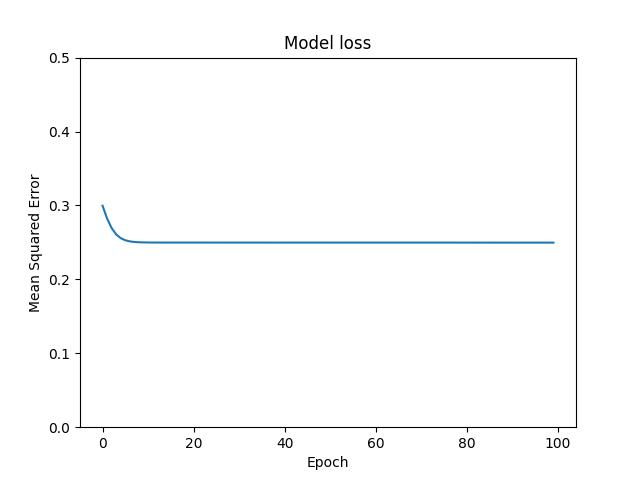
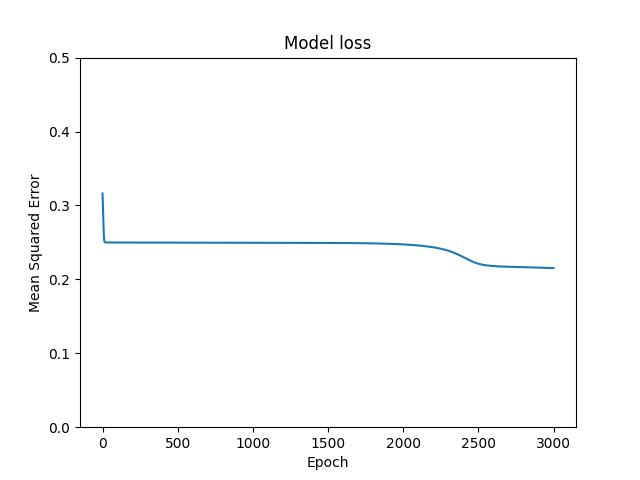
fixed testing print outs

diff --git a/src/assignment1.py b/src/assignment1.py
@@ -279,14 +279,15 @@ def main():
 
     ###Data and variables
     data = load_data()
+    make_graphs(data[0], data[1])
 
     ###Adapt the layers to change the shape of the neural network###
     input_size = [2]
     output_size = [1]
     hidden_layers = [6, 6]
-    Iteration_Epochs = 100
+    Iteration_Epochs = 3000
 
-    ##10 times model run with crossvalidation###
+    #10 times model run with crossvalidation###
     loss = np.zeros(Iteration_Epochs)
     accuracy = np.zeros(Iteration_Epochs)
     kerasloss = np.zeros(Iteration_Epochs)
@@ -307,10 +308,11 @@ def main():
         NN = Neural_Network(data_train, input_size, output_size, hidden_layers)
         loss2, accuracy2 = NN.train_network(Batch_Size, Iteration_Epochs, 0.2)
         NNtime = time.time() - start_time
+
         start_time = time.time()
         history, model = keras_learning(data_train, input_size, output_size, hidden_layers, Batch_Size, Iteration_Epochs, optimizer = SGD(learning_rate=0.8, momentum=0.2))
-        
         kerastime = time.time() - start_time
+
         kerasloss2 = history.history['loss']
         kerasaccuracy2 = history.history['accuracy']
         loss = [a + b for a, b in zip(loss, loss2)]
@@ -319,9 +321,9 @@ def main():
         kerasaccuracy = [a + b for a, b in zip(kerasaccuracy, kerasaccuracy2)]
 
         testhistory = model.evaluate(data_test[0], data_test[1], verbose = 0)
-        overall_NN_test_acc.append(testhistory[1])
+        overall_keras_test_acc.append(testhistory[1])
         testaccuracy = NN.classify(data_test[0], data_test[1])
-        overall_keras_test_acc.append(testaccuracy)
+        overall_NN_test_acc.append(testaccuracy)
 
         overall_NN_time.append(NNtime)
         overall_keras_time.append(kerastime)
@@ -357,7 +359,6 @@ def main():
     #         print(hidden_layers, optimizer.learning_rate, testhistory)
 
 
-    make_graphs(data[0], data[1])
     
     
 
